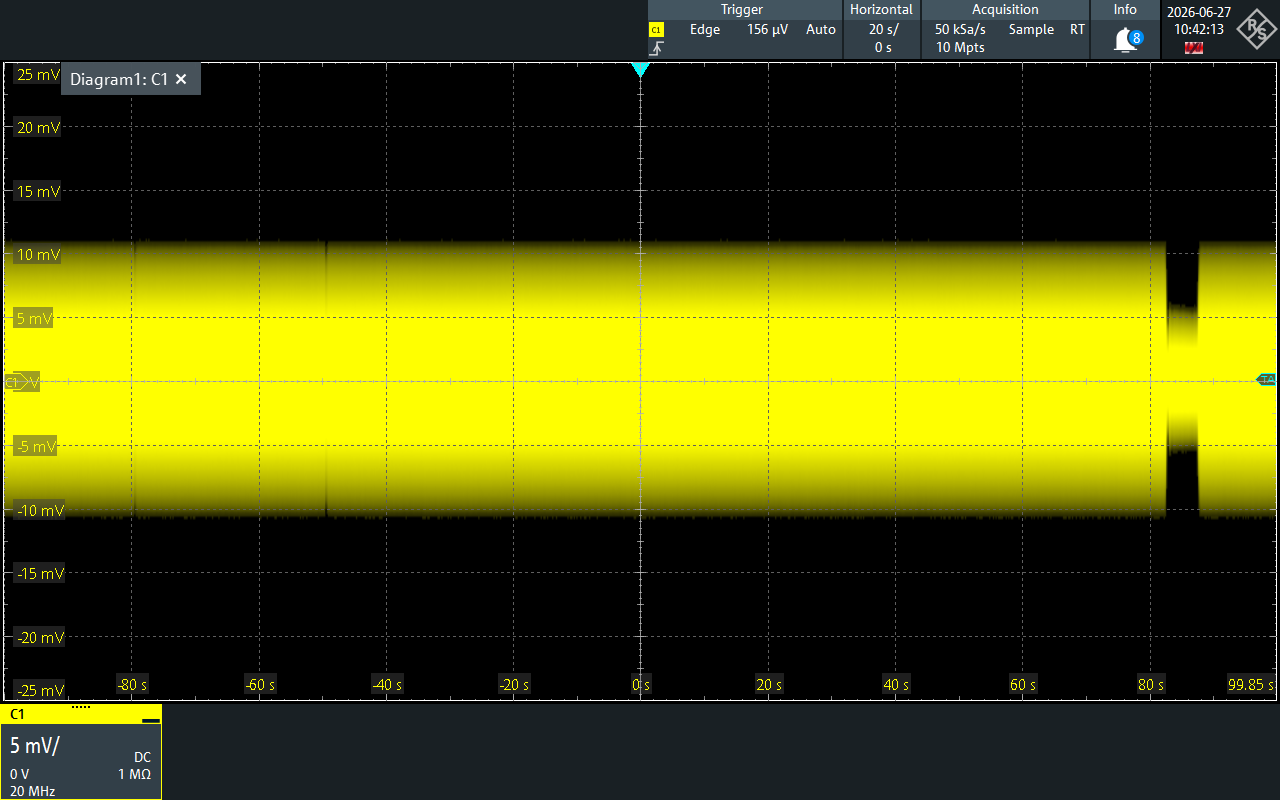
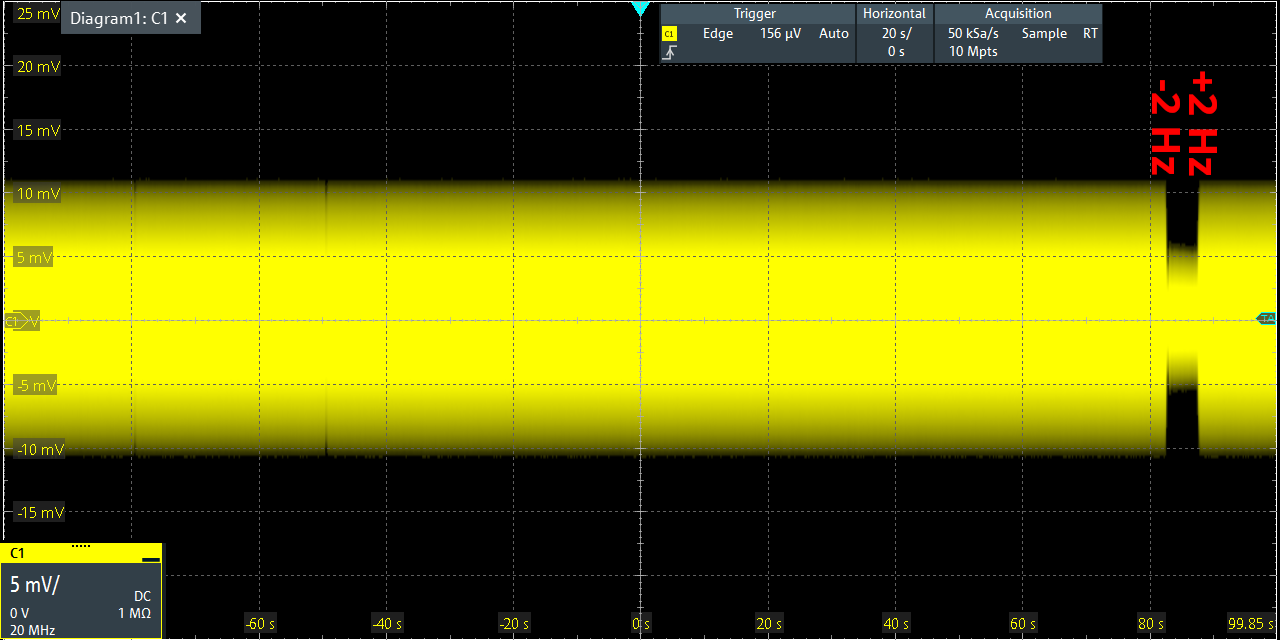
update screenshot

diff --git a/stroboscopy/README.md b/stroboscopy/README.md
@@ -44,7 +44,7 @@ to illuminate briefly the tuning fork:
 <img src="led.png">
 <img src="led_zoom.png">
 
-* check that the signal driving the tuning fork reaches the pin closes to the DC-DC
+* check that the signal driving the tuning fork reaches the pin closest to the DC-DC
 switching supply:
 
 <img src="tuning_fork_voltage.png">
@@ -81,7 +81,7 @@ Executing ``analyze.py`` assumes that the package ``python3-opencv`` is installe
 
 Running a constant tone at the tuning fork resonance frequency on a Raspberry Pi 4 and
 monitoring the current through the 50 kohm resistor between the tuning fork and ground exhibits
-some unexpected jumps attributed to unstable signal generation by the sound cart:
+some unexpected jumps attributed to unstable signal generation by the sound card:
 
 <img src="Screenshot_RPi4.png">
 
